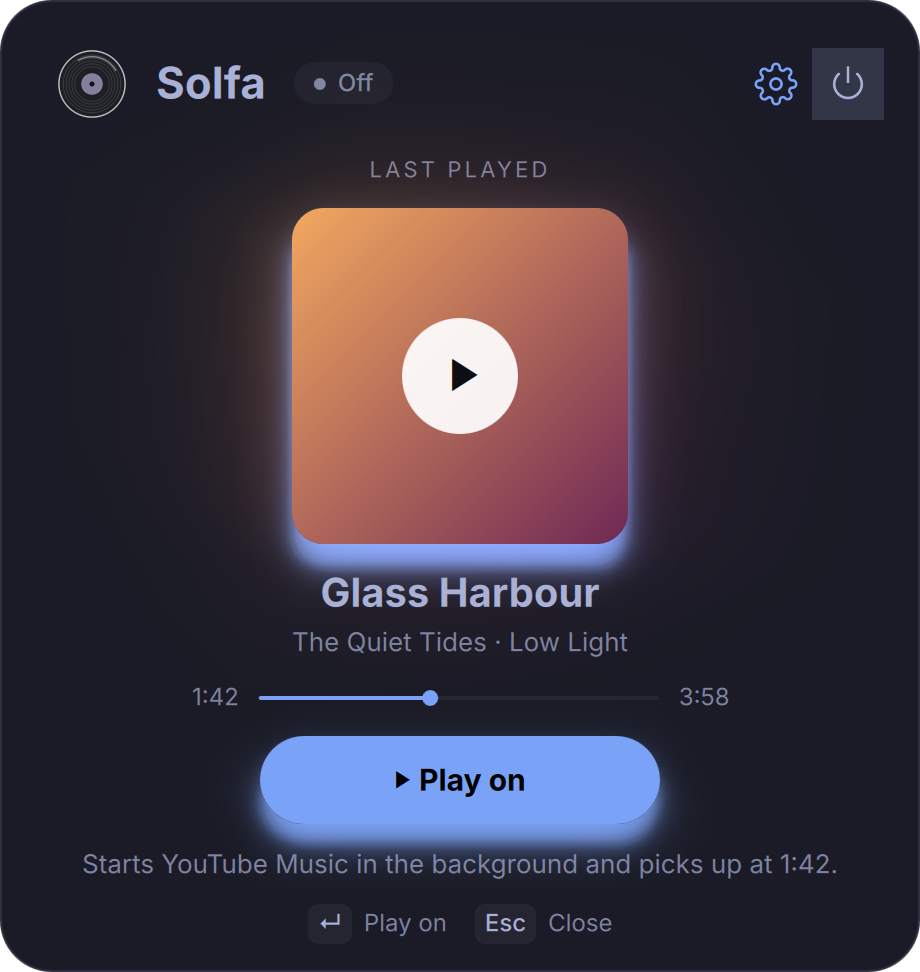
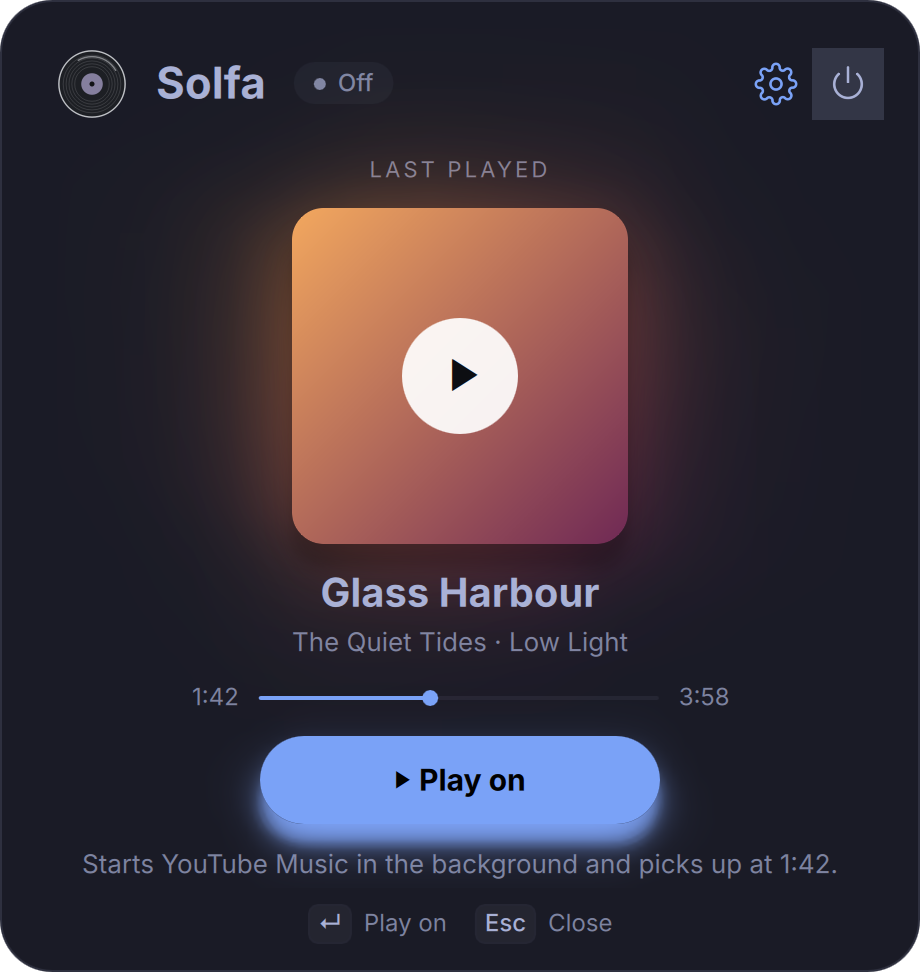
Off view: the hover shadow takes the cover's own colour, not the accent

Changed region(s): [[0.2739, 0.2469, 0.7, 0.6173]]

diff --git a/views/OffCard.qml b/views/OffCard.qml
@@ -68,6 +68,19 @@ Column {
         Behavior on opacity { NumberAnimation { duration: 400 } }
       }
 
+      // The hover shadow in the cover's own colour: a tight blurred copy of it, a little below.
+      CoverGlow {
+        objectName: "offCoverShadow"
+        anchors.centerIn: parent
+        anchors.verticalCenterOffset: 14
+        width: 340
+        height: 340
+        source: card.svc ? card.svc.lastThumb : ""
+        active: true
+        opacity: card.awake ? 0.7 : 0
+        Behavior on opacity { NumberAnimation { duration: 180 } }
+      }
+
       Item {
         id: lift
         anchors.fill: parent
@@ -78,12 +91,10 @@ Column {
         layer.enabled: true
         layer.effect: MultiEffect {
           shadowEnabled: true
-          shadowColor: card.awake ? Calm.a(Calm.accent, 0.4) : Qt.rgba(0, 0, 0, 0.55)
+          shadowColor: Qt.rgba(0, 0, 0, card.awake ? 0.35 : 0.55)
           shadowBlur: 1
           shadowVerticalOffset: card.awake ? 12 : 16
-          shadowOpacity: 1
-          Behavior on shadowColor { ColorAnimation { duration: 180 } }
-        }
+          shadowOpacity: 1        }
         RoundCover {
           id: lastCover
           objectName: "offCover"
